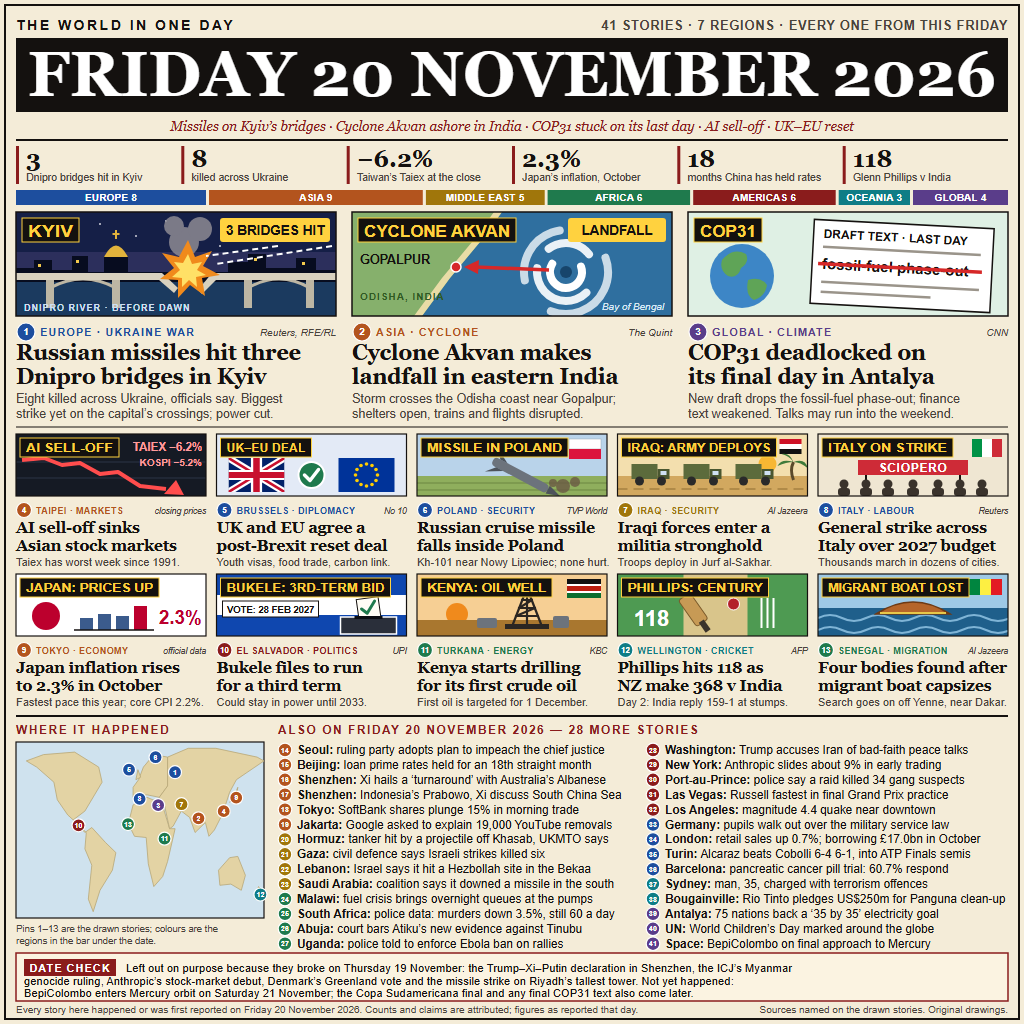
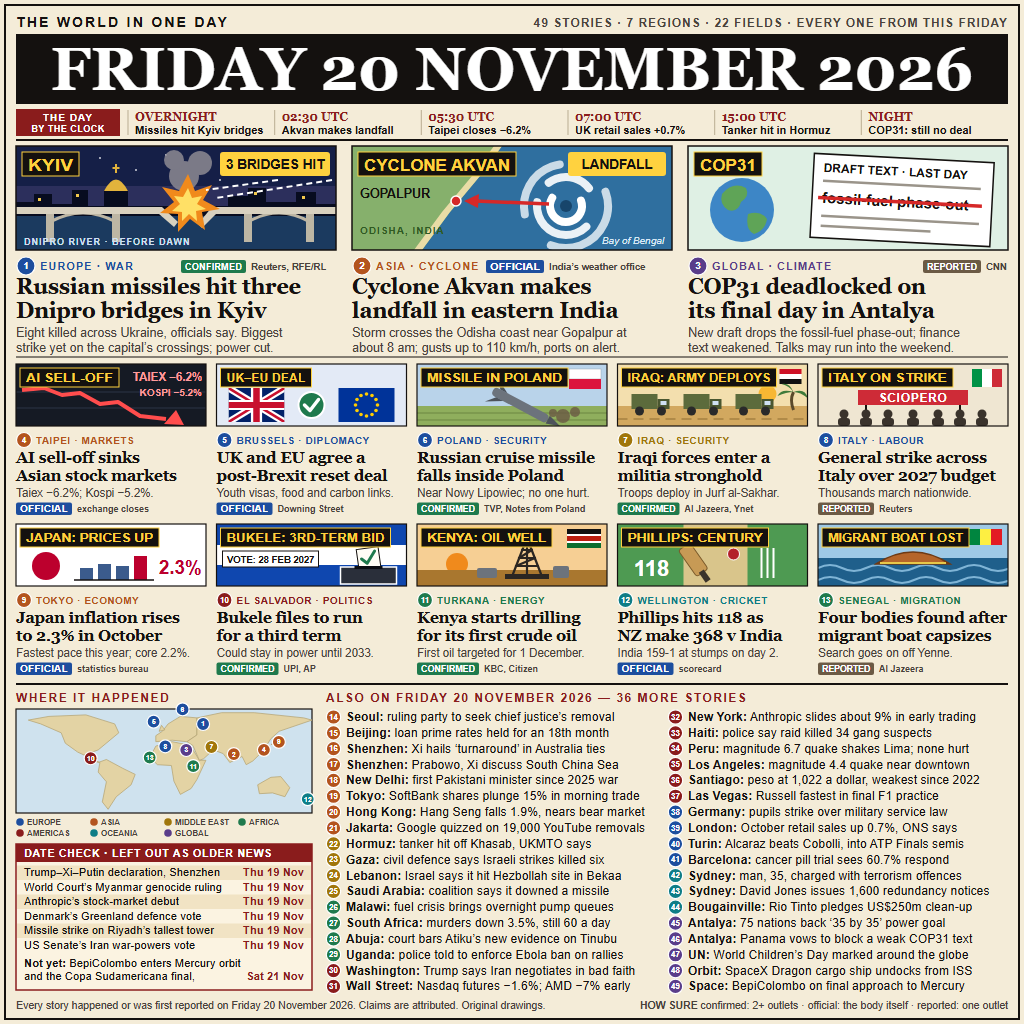
49 stories: the day by the clock in UTC, how-sure tags, dated date check; type back to the first page's sizes

diff --git a/README.md b/README.md
@@ -10,9 +10,11 @@ One image that sums up the world's news of **Friday 20 November 2026**, drawn as
 
 ## What is on the page
 
-41 stories, every one of them from that Friday: 3 drawn leads, 10 drawn cards and 28 numbered briefs, with the
-day in six figures, a bar counting the stories by region (all seven have at least three), a pin map and a date
-check. Each drawing carries a name plate, so the story reads from the picture alone. The five biggest:
+49 stories across 7 regions and 22 fields, every one of them from that Friday: 3 drawn leads, 10 drawn cards and
+36 numbered briefs, with the day by the clock in UTC, a pin map and a date check that lists each older story it
+leaves out beside the day it broke. Each drawing carries a name plate, so the story reads from the picture alone,
+and each drawn story carries a tag saying how sure it is (confirmed by two or more outlets, official, or reported
+by one outlet) and who stands behind it. The five biggest:
 
 | Story | Where | Field |
 | --- | --- | --- |
